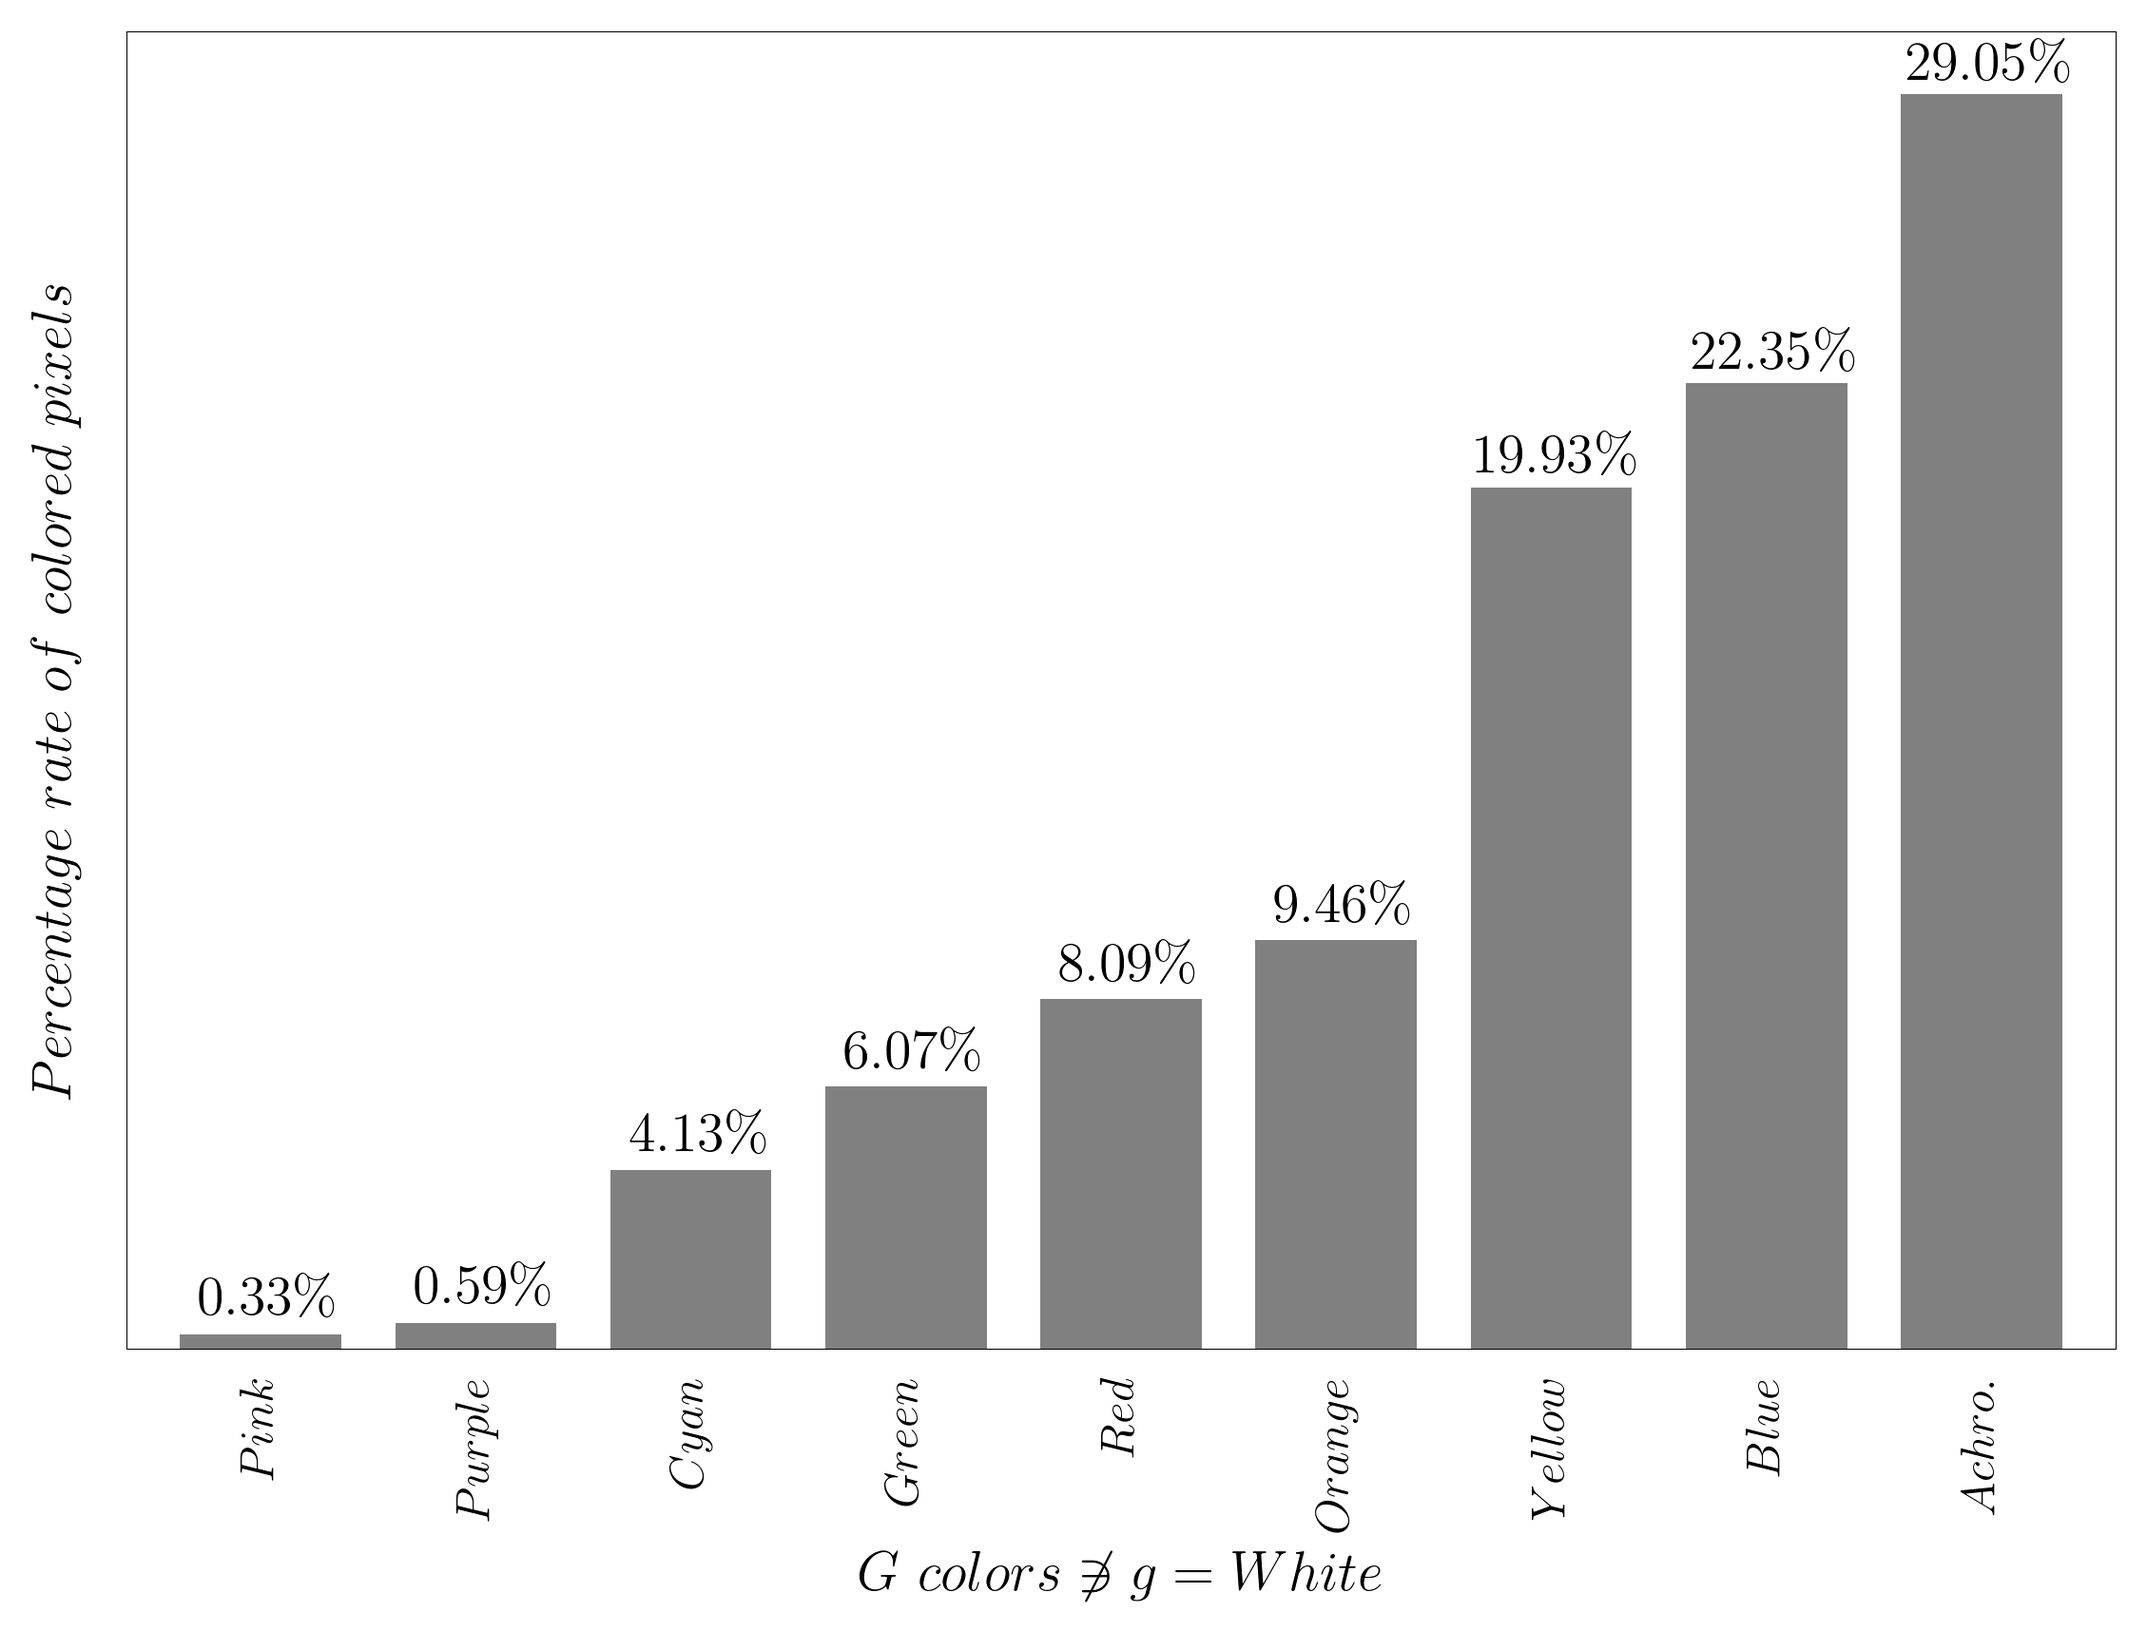
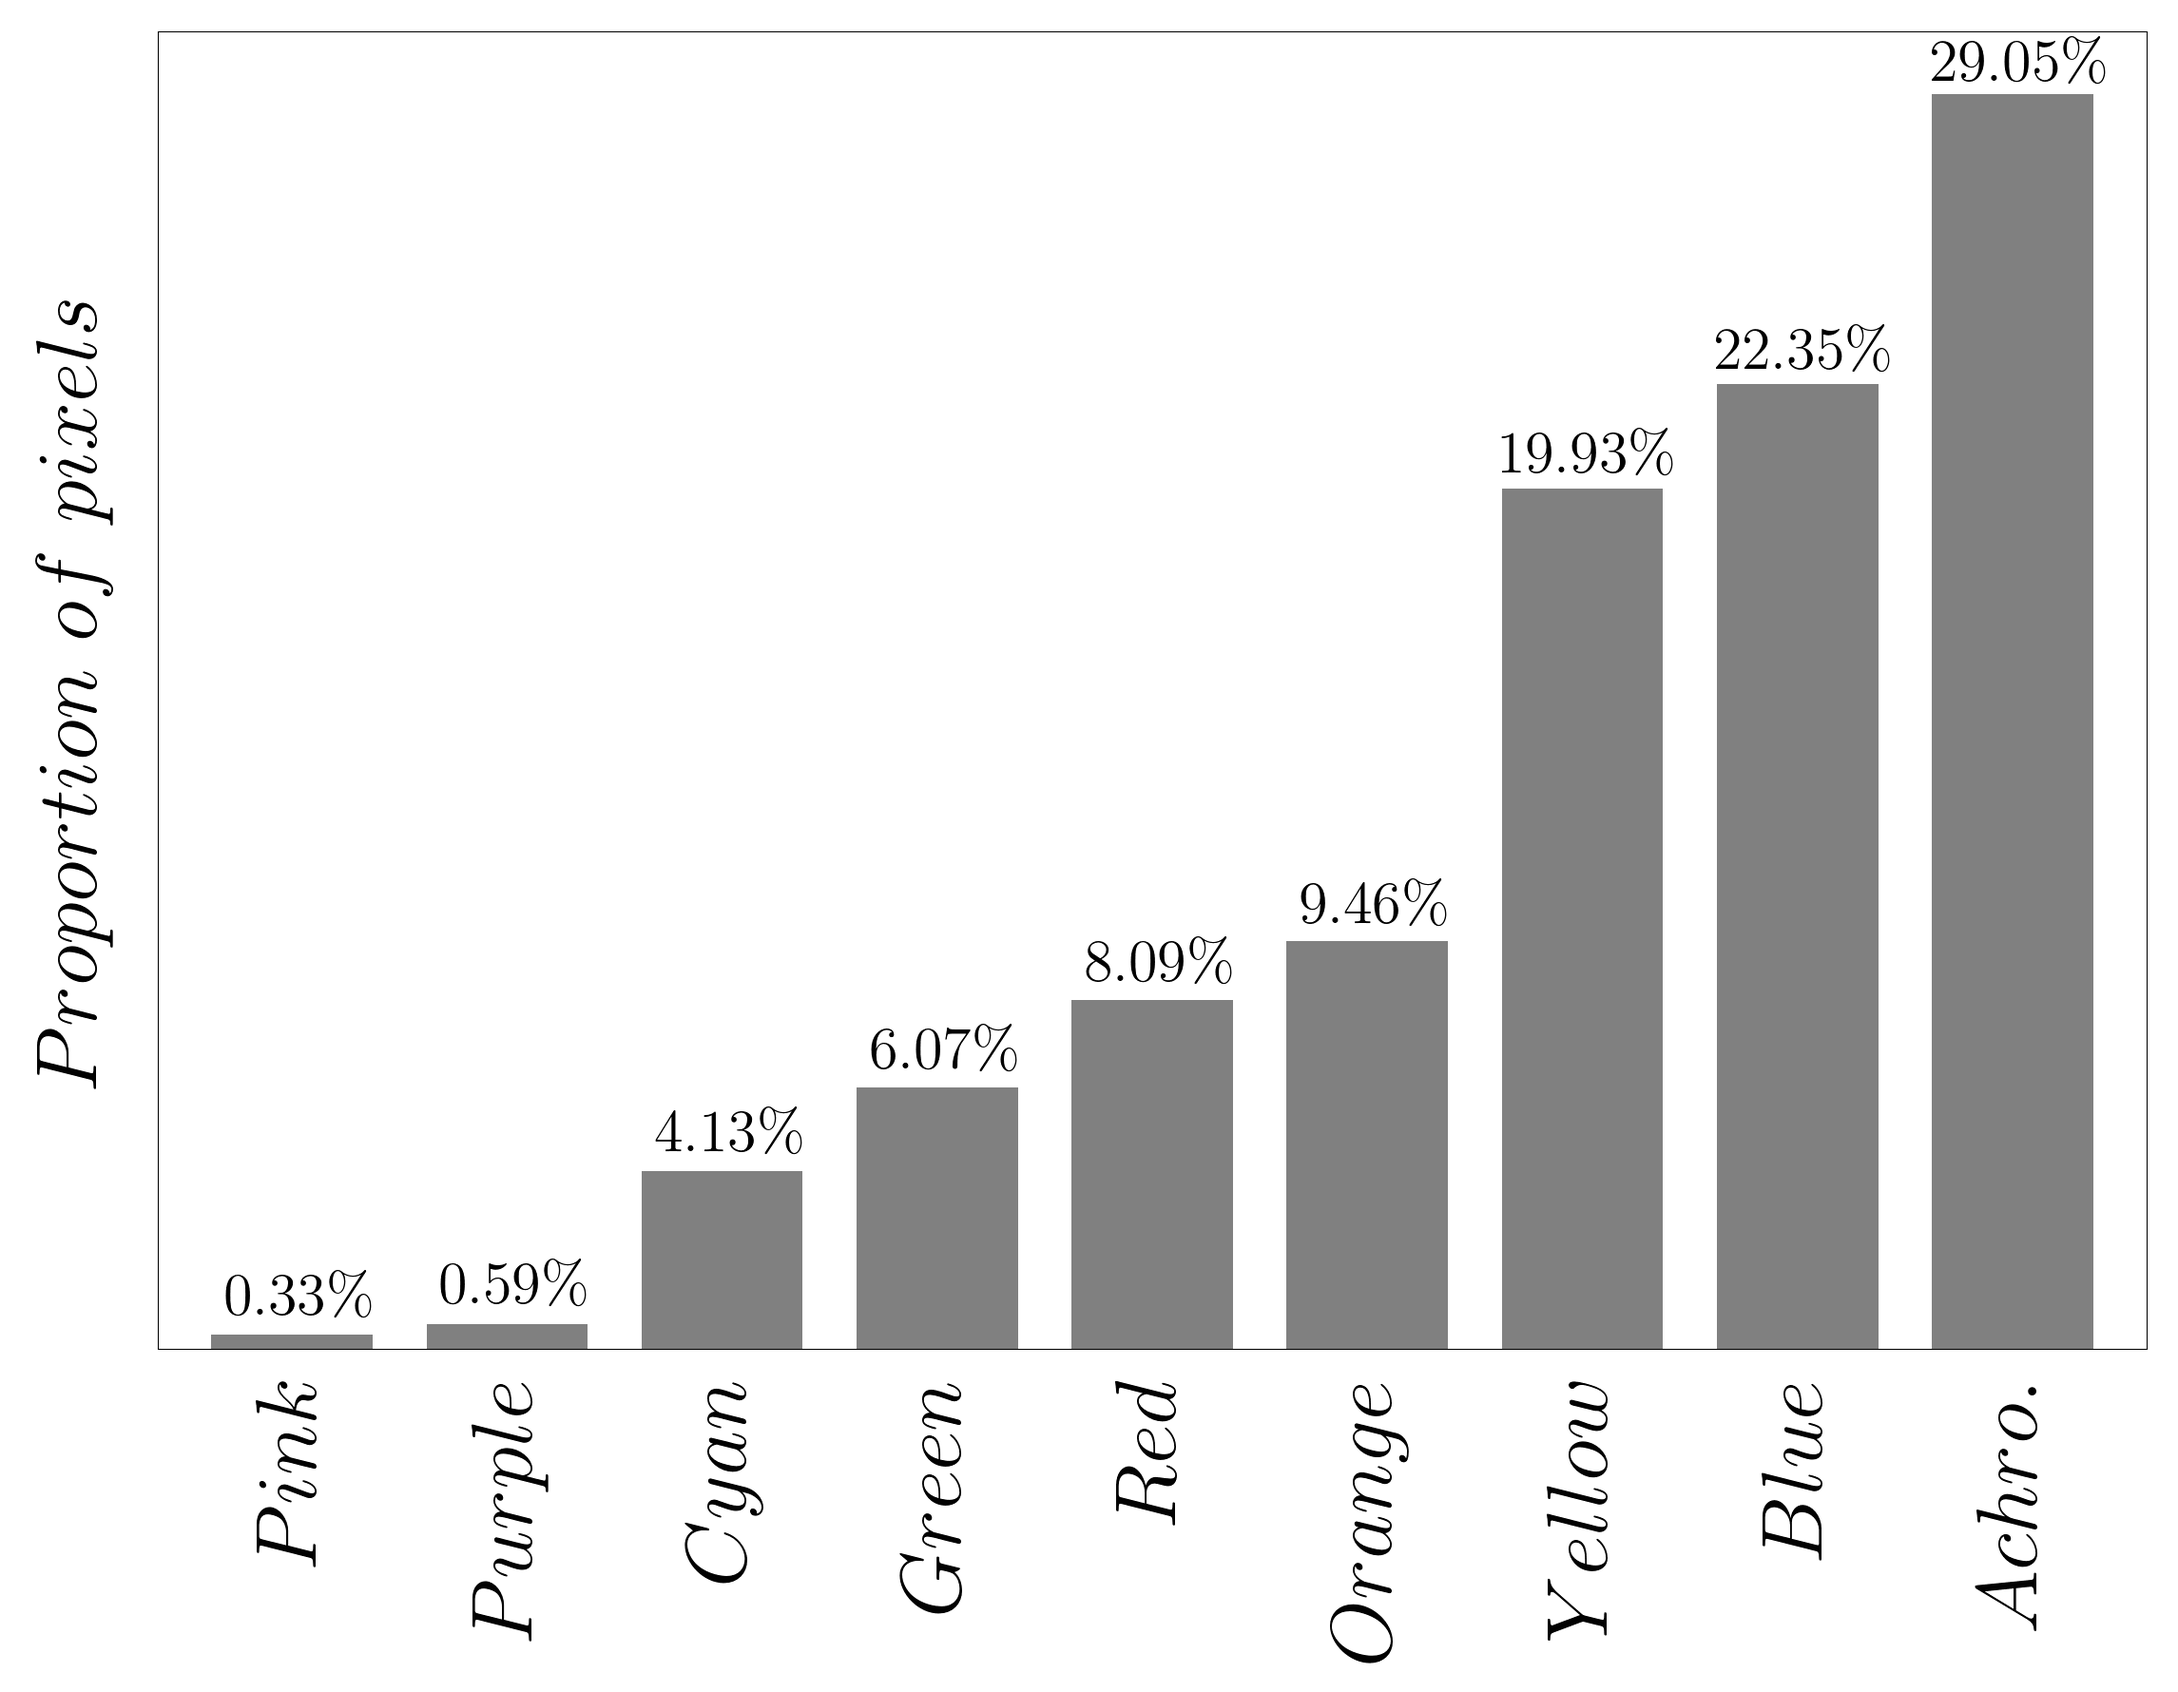
figures

diff --git a/main.tex b/main.tex
@@ -215,7 +215,7 @@ Besides the visualisation of colour decomposition, the method allows us to compu
 \begin{figure}[h!]
 	\centering
 	\includegraphics[width=\linewidth]{figures/colors-barplot.png}
-	\caption{Distribution of identified colours.{\color{green}[AX: je propose de supprimer le titre de l'axe des x et remplacer celui des y par "Proportion of pixels". Aussi, est-ce possible d'agrandir encore un peu la police des etiquettes de l'axe des x, pour les vieux comme moi? ;) Mais ca peut attendre la version finale.]}}
+	\caption{Distribution of identified colours.}
 	\label{fig:propcolours}
 \end{figure}
 
@@ -230,14 +230,14 @@ Based on the output of the colour identification method, the variety and entropy
 \begin{figure}[h!]
 	\centering
 	\includegraphics[width=\linewidth]{figures/colors-boxplot-hist.png}
-	\caption{Distribution of colour variety.{\color{green}[AX: je supprimerais "rate" dans le titre de l'axe des y, et je noterais "Colour variety" au lieu de V dans celui des x.]}}
+	\caption{Distribution of colour variety}
 	\label{fig:variety_histogram}
 \end{figure}
 
 \begin{figure}[h!]
 	\centering
 	\includegraphics[width=\linewidth]{figures/colors-boxplot.png}
-	\caption{Colour entropy box-plots as a function of colour variety.{\color{green}[AX: je remplacerais les titre des axes par "Colour entropy" et "Colour variety".]}}
+	\caption{Colour entropy box-plots as a function of colour variety.}
 	\label{fig:entropy_boxplot}
 \end{figure}
 
@@ -254,9 +254,9 @@ In order to get a better idea of the interpretation of colour entropy variations
 
 Based on the chosen colour sets, the entropy measure is sensitive to the errors during the pixel colour attributions (e.g.~similar distances, no Brown, etc.). 
 Then, we compare it with a common approach of Computer Vision which consists to measure the entropy on the greyscale levels histogram of the drawing. 
-The scatter plot, figure~\ref{fig:entropies}, depicts the significant Pearson correlation ($r=0.8866$, $p=0.000$) between these two entropy values {\color{red}[Reprendre quelques parties de 3.5 et citer \citet{wu2013}]}. 
+The scatter plot, figure~\ref{fig:entropies}, depicts the significant Pearson correlation ($r=0.8866$, $p=0.000$) between these two entropy values. % {\color{red}[Reprendre quelques parties de 3.5 et citer \citet{wu2013}]}. 
 
-{\small \color{teal}[IDEE: Est-ce que les extr\`emes ne permettraient pas d'en dire plus? A creuser.]}
+%{\small \color{teal}[IDEE: Est-ce que les extr\`emes ne permettraient pas d'en dire plus? A creuser.]}
 
 \begin{figure}[h!]
 	\centering
